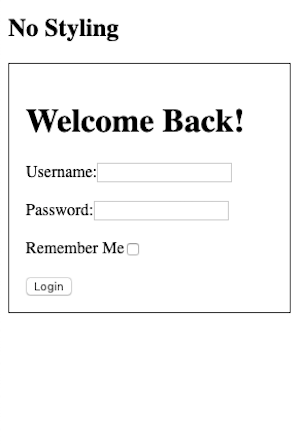
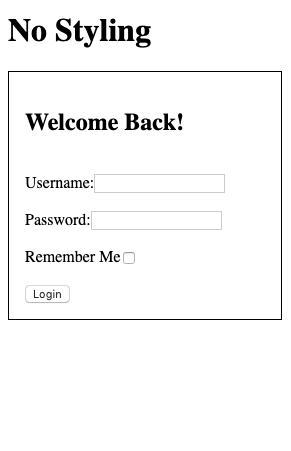
adds BasicStyling component

diff --git a/client/src/components/BasicStyling.js b/client/src/components/BasicStyling.js
@@ -1,0 +1,105 @@
+import React from "react";
+import { NavLink } from "react-router-dom";
+
+function BasicStyling() {
+  return (
+    <div
+      style={{
+        width: "15rem",
+        fontFamily: "helvetica",
+        fontWeight: 100,
+        textAlign: "center"
+      }}
+    >
+      <NavLink to="/">Back to Home</NavLink>
+
+      <h2>Basic Styling</h2>
+
+      <div
+        style={{
+          border: "1px solid black",
+          height: "20rem",
+          width: "100%",
+          display: "flex",
+          flexDirection: "column",
+          justifyContent: "flex-start",
+          alignItems: "center"
+        }}
+      >
+        <h2
+          style={{
+            fontWeight: 300,
+            display: "inline-block",
+            background: "darkslateblue",
+            padding: "1rem",
+            color: "white",
+            width: "87%",
+            margin: "0"
+          }}
+        >
+          Welcome Back!
+        </h2>
+
+        <form
+          style={{
+            height: "100%",
+            marginTop: "3rem"
+          }}
+        >
+          <div
+            style={{
+              height: "40%",
+              display: "flex",
+              flexDirection: "column",
+              justifyContent: "space-evenly"
+            }}
+          >
+            <label>
+              Username:
+              <input
+                style={{
+                  height: "1rem",
+                  margin: "0.3rem",
+                  borderRadius: "5px"
+                }}
+                type="text"
+              />
+            </label>
+
+            <label>
+              Password:
+              <input
+                style={{
+                  height: "1rem",
+                  margin: "0.3rem",
+                  borderRadius: "5px"
+                }}
+                type="password"
+              />
+            </label>
+          </div>
+
+          <label style={{ display: "block", marginBottom: "2rem" }}>
+            Remember Me
+            <input type="checkbox" />
+          </label>
+
+          <button
+            type="submit"
+            style={{
+              background: "darkslateblue",
+              color: "white",
+              fontSize: "0.9rem",
+              padding: "0.5rem 1.5rem",
+              cursor: "pointer"
+            }}
+          >
+            Login
+          </button>
+        </form>
+      </div>
+    </div>
+  );
+}
+
+export default BasicStyling;

diff --git a/client/src/components/Navigation.js b/client/src/components/Navigation.js
@@ -7,7 +7,10 @@ function Navigation() {
   return (
     <div className="navigation-container">
       <Mobile image={nostyling} linkTo={"/no-styling"} />
-      <Mobile image={"https://docs.webix.com/media/desktop/htmlform.png"} />
+      <Mobile
+        image={"https://docs.webix.com/media/desktop/htmlform.png"}
+        linkTo={"/basic-styling"}
+      />
       <Mobile image={"https://docs.webix.com/media/desktop/htmlform.png"} />
       <Mobile image={"https://docs.webix.com/media/desktop/htmlform.png"} />
       {/* <NavLink to="/no-styling">No Styling</NavLink> */}

diff --git a/client/src/App.js b/client/src/App.js
@@ -3,12 +3,14 @@ import { Route } from "react-router-dom";
 
 import Navigation from "./components/Navigation";
 import NoStyling from "./components/NoStyling";
+import BasicStyling from "./components/BasicStyling";
 
 function App() {
   return (
     <div>
       <Route exact path="/" component={Navigation} />
       <Route path="/no-styling" component={NoStyling} />
+      <Route path="/basic-styling" component={BasicStyling} />
     </div>
   );
 }

diff --git a/client/src/components/NoStyling.js b/client/src/components/NoStyling.js
@@ -4,10 +4,11 @@ import { NavLink } from "react-router-dom";
 function NoStyling() {
   return (
     <div>
-      <NavLink to="/">Back</NavLink>
-      <h2>No Styling</h2>
+      <NavLink to="/">Back to Home</NavLink>
+      <h1>No Styling</h1>
       <div className="page">
-        <h1>Welcome Back!</h1>
+        <h2>Welcome Back!</h2>
+        <br />
         <form>
           <label>
             Username:

diff --git a/client/src/main.css b/client/src/main.css
@@ -1,3 +1,9 @@
+body {
+  display: flex;
+  justify-content: center;
+  align-items: center;
+}
+
 .navigation-container {
   height: 100vh;
   width: 100vw;
